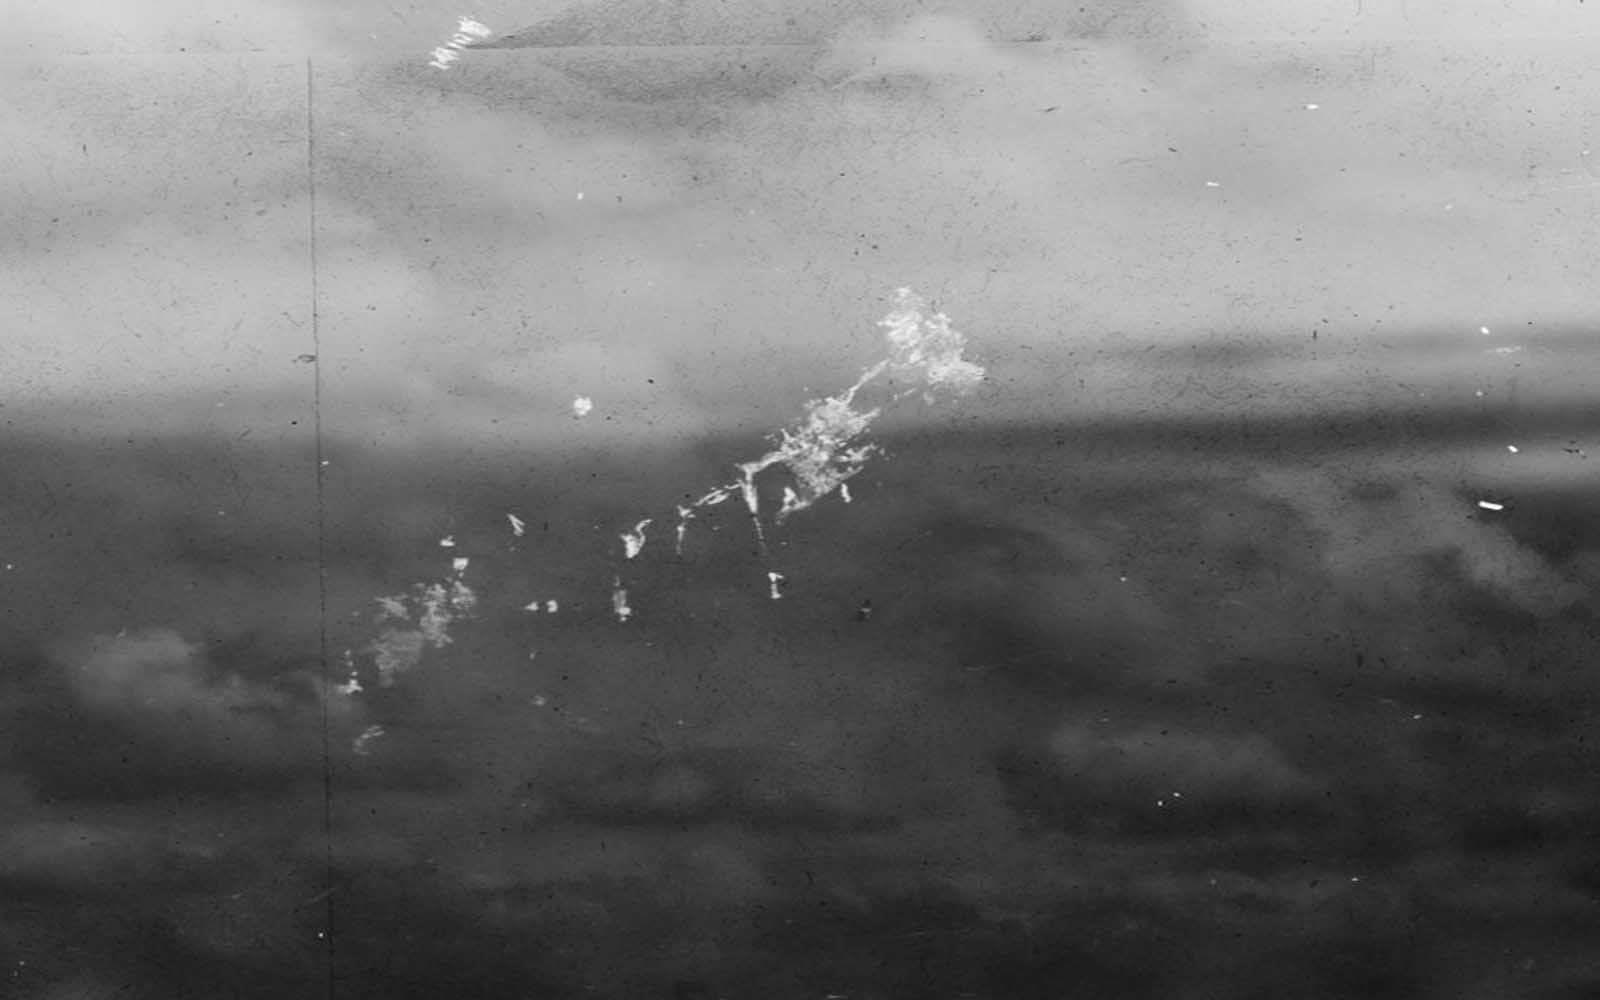
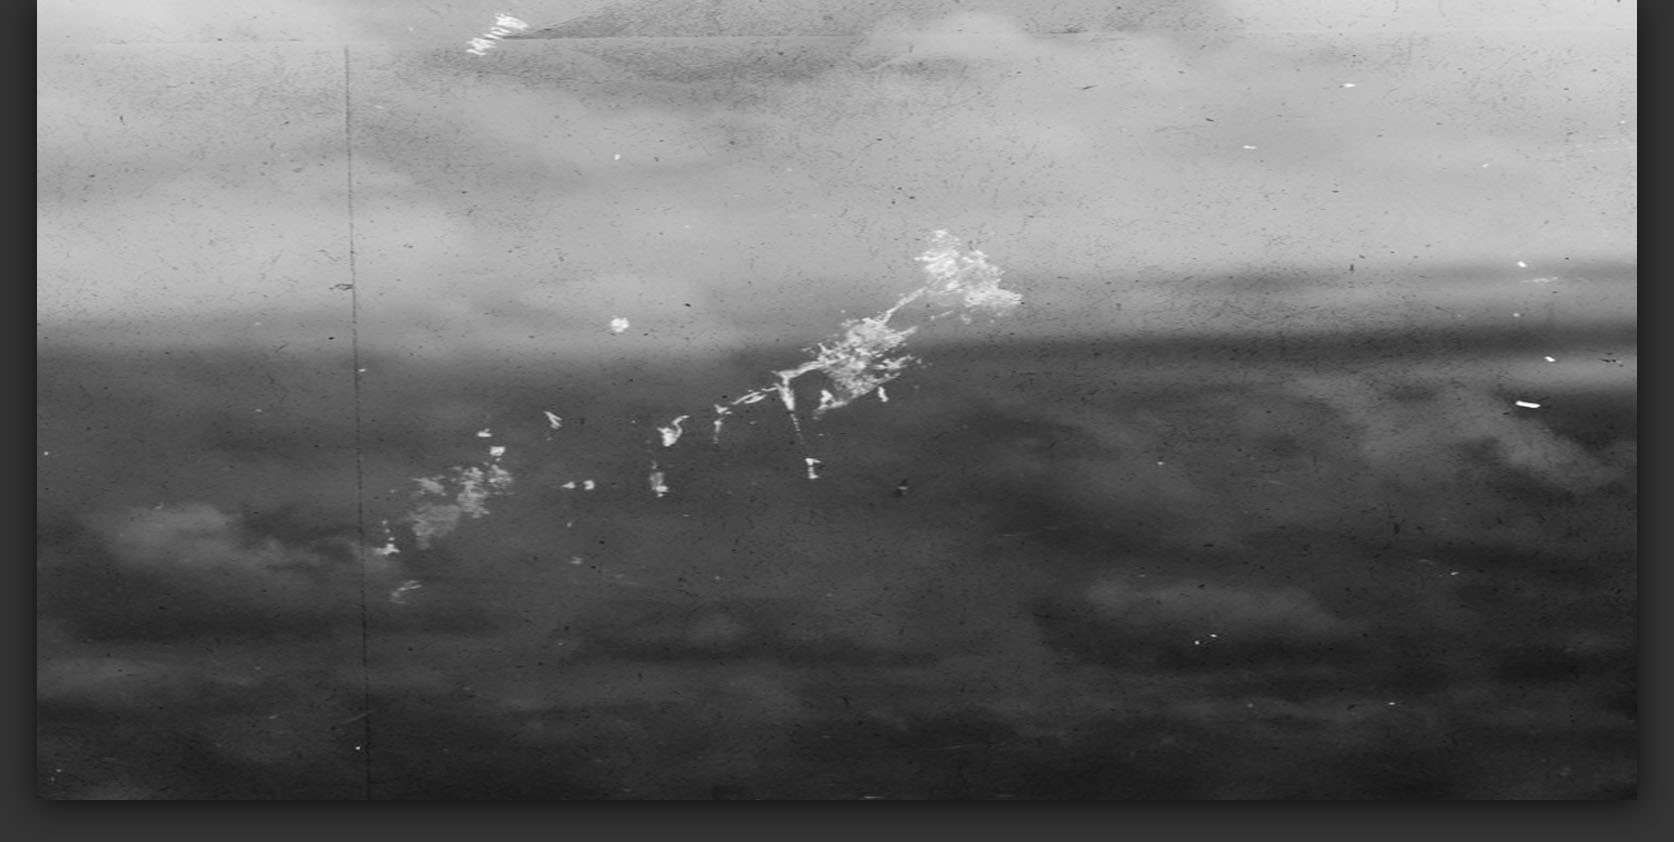
more designs

diff --git a/public/stylesheets/screen.css b/public/stylesheets/screen.css
@@ -1,18 +1,16 @@
 body {
-  background: #000 url(/images/bg.jpg) no-repeat 50% 0;
+  background: #333 url(/images/bg.jpg) no-repeat 50% 0;
   font-family: Verdana,Arial,sans-serif;
   font-size: 12px;
 }
 
 .page {
-  width: 770px; margin: 1.5em auto 0;
+  width: 772px; margin: 1.5em auto 0;
   background: transparent url(/images/title.png) no-repeat 0 0;
 }
 .footer {
   color: #ddd; margin-top: 10px;
   text-shadow: rgba(0, 0, 0, 1) -1px -1px 0px;
-/*  text-shadow: rgba(255, 255, 255, 0.5) 1px 1px 0px;*/
-
 }
 
 .ui-tabs { background: none; border: none; -moz-border-radius: 0; -webkit-border-radius: 0; border-radius: 0;
@@ -52,8 +50,9 @@ body {
 
 .ui-tabs .ui-tabs-panel {
   padding: 10px 10px 70px; background-color: #000;
-  -webkit-box-shadow: #333 0px 4px 10px;
-  -moz-box-shadow: #333 0px 4px 10px;
+  border: 1px solid #aaa;
+  -webkit-box-shadow: #000 0px 4px 20px;
+  -moz-box-shadow: #000 0px 4px 20px;
 }
 
 .ui-tabs .ui-tabs-panel .ps {
